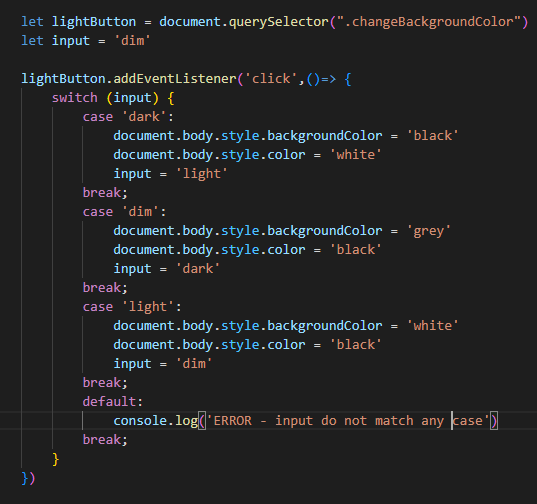
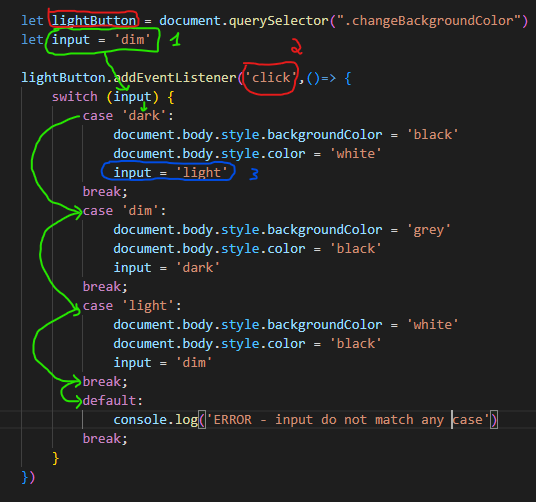
Switch description  update

diff --git a/components/switchComp.js b/components/switchComp.js
@@ -6,12 +6,17 @@ const switchComp = () => {
 
     let switchDiv = createElement('div', ['switch', 'component'])
     switchDiv.innerHTML = `
-   <h1>Switch page:</h1>
-   <button class='changeBackgroundColor'> Switch background color</button>
-   <br>
-   <br>
-   <img src='./img/switch/switch1.png'></img>
-   `
+    <h1>Switch page:</h1>
+    <button class='changeBackgroundColor'> Switch background color</button>
+    <br>
+    <br>
+    <img src='./img/switch/switch1.png'/></img>
+    <ol>
+        <li>SWITCH is similar to IF. You give argument (input) to switch parameter and switch checks "input" value against each case. If case is a match switch initiate that case body code and breaks. If case is not found - default is initiated</li>
+        <li>In this case switch initiated when button is clicked.</li>
+        <li>In this case i replace initial value of INPUT to different value  so button would toggle through colors of each case every time button is clicked</li>
+    </ol>
+    `
     document.body.append(switchDiv)
 
 
